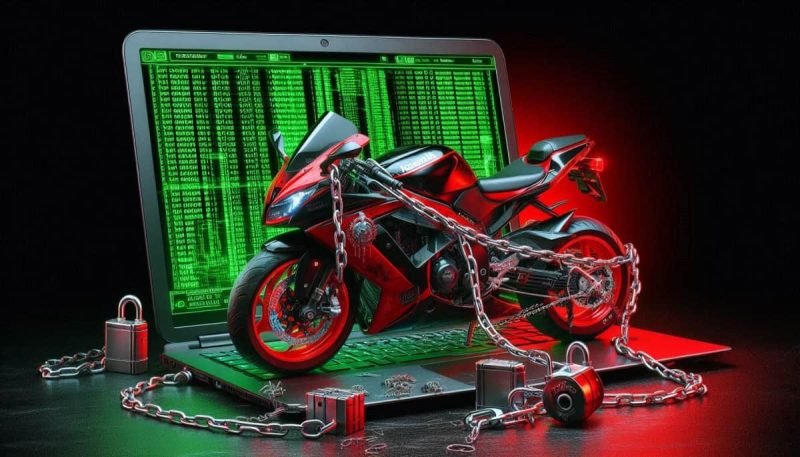
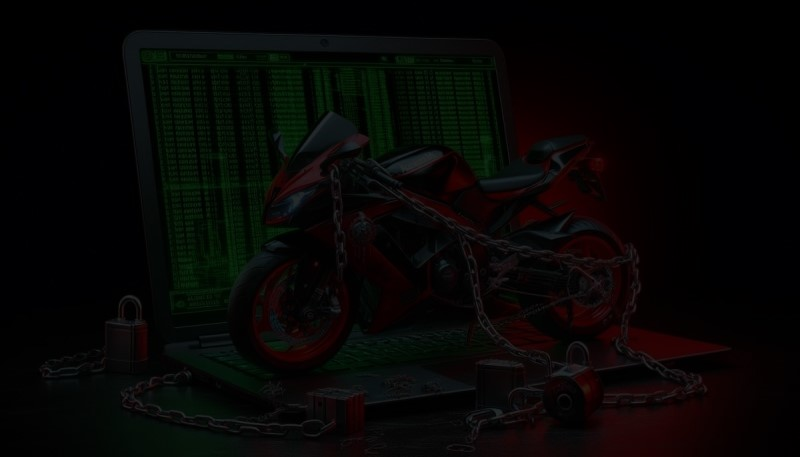
finished recent-cyber-attack
tapos na ya pramis

diff --git a/recent-cyber-attacks/icbc-financial-services.html b/recent-cyber-attacks/icbc-financial-services.html
@@ -9,8 +9,8 @@
 	</head>
 	<body class="text-white text-roboto">
 		<!-- NAVIGATION -->
-		<div id="hero" class="w-full p-2 pb-72 text-center bg-[url('../assets/picture-recent-cyber-attacks/icbc-attack.avif')] bg-cover bg-center bg-no-repeat relative" style="position: relative;">
-            <div style="position: absolute; inset: 0; background-color: rgba(0, 0, 0, 0.6); pointer-events: none ;"></div>
+		<div id="hero" class="w-full p-2 pb-72 text-center bg-[url('../assets/picture-recent-cyber-attacks/icbc-attack.jpg')] bg-cover bg-center bg-no-repeat relative" style="position: relative;">
+            <div style="position: absolute; inset: 0; background-color: rgba(0, 0, 0, 0); pointer-events: none ;"></div>
             <div style="position: absolute; inset: 0; box-shadow: inset 0 0 100px rgba(0, 0, 0, 0.5); pointer-events: none;"></div>
             <nav class="absolute inset-0 z-10">
                 <div class="w-full p-4 flex items-center justify-between">
@@ -356,7 +356,7 @@
           <div class="grid grid-cols-3 gap-4">
             
             <div class=" bg-[#141528] border border-indigo-900 rounded space-y-2 hover:scale-105 transform transition-all duration-300 hover:scale-105">
-                <img src="https://placehold.co/500x500" class="w-full h-80 object-cover rounded p-4" alt="">
+                <img src="../assets/picture-recent-cyber-attacks/boeing.jpg" class="w-full h-80 object-cover rounded p-4" alt="">
                 <div class="p-4">
                     <h5 class=" font-medium text-2xl">Boeing Ransomware Attack </h5>
                     <p class="my-2">Fasten your seatbelts for a high-flying cyber tale targeting the giants of the aerospace industry! Boeing, the name synonymous with aviation innovation, found itself in the crosshairs of the notorious LockBit ransomware group. Picture this: a $200 million ransom demand hanging in the digital air! Even though some data took an unauthorized flight online, Boeing assured the world that flight safety remained grounded in security. It's a stark reminder that even the most technologically advanced companies face relentless cyber threats, and the stakes are sky-high when it comes to protecting critical infrastructure.</p>
@@ -367,7 +367,7 @@
             </div>
 
             <div class=" bg-[#141528] border border-indigo-900 rounded space-y-2 hover:scale-105 transform transition-all duration-300 hover:scale-105">
-                <img src="https://placehold.co/500x500" class="w-full h-80 object-cover rounded p-4" alt="">
+                <img src="../assets/picture-recent-cyber-attacks/schneider-attack.jpg" class="w-full h-80 object-cover rounded p-4" alt="">
                 <div class="p-4">
                     <h5 class=" font-medium text-2xl">Schneider Electric Ransomware Attack</h5>
                     <p class="my-2">Let's journey into the intricate world of industrial giants and the cyber threats they face. Schneider Electric, a powerhouse in automation and digital transformation, found itself in a digital tug-of-war with the Hellcat ransomware group. Picture a locked digital vault containing project secrets and user data, with a hefty ransom demand echoing in the digital corridors. While the core operations remained seemingly untouched, the potential exposure of sensitive information adds a layer of suspense to this industrial cyber drama. It's a stark reminder that even the most robust enterprises are not immune to the persistent claws of ransomware.</p>
@@ -378,7 +378,7 @@
             </div>
 
             <div class=" bg-[#141528] border border-indigo-900 rounded space-y-2 hover:scale-105 transform transition-all duration-300 hover:scale-105">
-                <img src="https://placehold.co/500x500" class="w-full h-80 object-cover rounded p-4" alt="">
+                <img src="../assets/picture-recent-cyber-attacks/kawasaki-attack.jpg" class="w-full h-80 object-cover rounded p-4" alt="">
                 <div class="p-4">
                     <h5 class=" font-medium text-2xl">Kawasaki Motors Europe Ransomware Attack </h5>
                     <p class="my-2">A stealthy digital heist targeting the roaring world of Kawasaki motorcycles! RansomHub, a shadowy group of cyber extortionists, allegedly snatched a treasure trove of data from Kawasaki Motors Europe. What makes this tale extra intriguing is the initial hush-hush, with Kawasaki seemingly downplaying the digital drama. But like any good thriller, a plot twist emerged when the stolen secrets were reportedly leaked online after the ransom remained unpaid. It's a fascinating peek behind the corporate curtain, revealing that even when the engine's running smoothly, digital dangers can still lurk in the shadows.</p>

diff --git a/recent-cyber-attacks/kawasaki-motors.html b/recent-cyber-attacks/kawasaki-motors.html
@@ -10,7 +10,7 @@
 	<body class="text-white text-roboto">
 		<!-- NAVIGATION -->
 		<div id="hero" class="w-full p-2 pb-72 text-center bg-[url('../assets/picture-recent-cyber-attacks/kawasaki-attack.jpg')] bg-cover bg-center bg-no-repeat relative" style="position: relative;">
-            <div style="position: absolute; inset: 0; background-color: rgba(0, 0, 0, 0.6); pointer-events: none ;"></div>
+            <div style="position: absolute; inset: 0; background-color: rgba(0, 0, 0, 0); pointer-events: none ;"></div>
             <div style="position: absolute; inset: 0; box-shadow: inset 0 0 100px rgba(0, 0, 0, 0.5); pointer-events: none;"></div>
             <nav class="absolute inset-0 z-10">
                 <div class="w-full p-4 flex items-center justify-between">
@@ -357,7 +357,7 @@
           <div class="grid grid-cols-3 gap-4">
             
             <div class=" bg-[#141528] border border-indigo-900 rounded space-y-2 hover:scale-105 transform transition-all duration-300 hover:scale-105">
-                <img src="https://placehold.co/500x500" class="w-full h-80 object-cover rounded p-4" alt="">
+                <img src="../assets/picture-recent-cyber-attacks/change-healthcare.jpeg" class="w-full h-80 object-cover rounded p-4" alt="">
                 <div class="p-4">
                     <h5 class=" font-medium text-2xl">Change Healthcare Ransomware</h5>
                     <p class="my-2">Ever wonder what happens when the digital arteries of healthcare get clogged? In a dramatic cyber showdown, Change Healthcare, a vital cog in the US medical machine, found itself in the crosshairs of the notorious BlackCat ransomware gang. Imagine pharmacies unable to fill prescriptions and hospitals facing payment pandemonium – it was a real-life digital emergency! Ultimately, the alleged hefty ransom paid paints a vivid picture of the immense pressure these attacks can inflict, leaving us pondering the true cost of keeping our vital systems safe. Get ready to explore the gripping saga of a healthcare giant brought to its knees by the invisible menace of ransomware.</p>
@@ -368,7 +368,7 @@
             </div>
 
             <div class=" bg-[#141528] border border-indigo-900 rounded space-y-2 hover:scale-105 transform transition-all duration-300 hover:scale-105">
-                <img src="https://placehold.co/500x500" class="w-full h-80 object-cover rounded p-4" alt="">
+                <img src="../assets/picture-recent-cyber-attacks/boeing.jpg" class="w-full h-80 object-cover rounded p-4" alt="">
                 <div class="p-4">
                     <h5 class=" font-medium text-2xl">Boeing Ransomware Attack</h5>
                     <p class="my-2">Fasten your seatbelts for a high-flying cyber tale targeting the giants of the aerospace industry! Boeing, the name synonymous with aviation innovation, found itself in the crosshairs of the notorious LockBit ransomware group. Picture this: a $200 million ransom demand hanging in the digital air! Even though some data took an unauthorized flight online, Boeing assured the world that flight safety remained grounded in security. It's a stark reminder that even the most technologically advanced companies face relentless cyber threats, and the stakes are sky-high when it comes to protecting critical infrastructure.</p>
@@ -379,7 +379,7 @@
             </div>
 
             <div class=" bg-[#141528] border border-indigo-900 rounded space-y-2 hover:scale-105 transform transition-all duration-300 hover:scale-105">
-                <img src="https://placehold.co/500x500" class="w-full h-80 object-cover rounded p-4" alt="">
+                <img src="../assets/picture-recent-cyber-attacks/schneider-attack.jpg" class="w-full h-80 object-cover rounded p-4" alt="">
                 <div class="p-4">
                     <h5 class=" font-medium text-2xl">Schneider Electric Ransomware attack</h5>
                     <p class="my-2">Let's journey into the intricate world of industrial giants and the cyber threats they face. Schneider Electric, a powerhouse in automation and digital transformation, found itself in a digital tug-of-war with the Hellcat ransomware group. Picture a locked digital vault containing project secrets and user data, with a hefty ransom demand echoing in the digital corridors. While the core operations remained seemingly untouched, the potential exposure of sensitive information adds a layer of suspense to this industrial cyber drama. It's a stark reminder that even the most robust enterprises are not immune to the persistent claws of ransomware.</p>

diff --git a/recent-cyber-attacks/loan-depot.html b/recent-cyber-attacks/loan-depot.html
@@ -10,7 +10,7 @@
 	<body class="text-white text-roboto">
 		<!-- NAVIGATION -->
 		<div id="hero" class="w-full p-2 pb-72 text-center bg-[url('../assets/picture-recent-cyber-attacks/loandepot-attack.jpg')] bg-cover bg-center bg-no-repeat relative" style="position: relative;">
-            <div style="position: absolute; inset: 0; background-color: rgba(0, 0, 0, 0.6); pointer-events: none ;"></div>
+            <div style="position: absolute; inset: 0; background-color: rgba(0, 0, 0, 0); pointer-events: none ;"></div>
             <div style="position: absolute; inset: 0; box-shadow: inset 0 0 100px rgba(0, 0, 0, 0.5); pointer-events: none;"></div>
             <nav class="absolute inset-0 z-10">
                 <div class="w-full p-4 flex items-center justify-between">
@@ -354,7 +354,7 @@
           <div class="grid grid-cols-3 gap-4">
             
             <div class=" bg-[#141528] border border-indigo-900 rounded space-y-2 hover:scale-105 transform transition-all duration-300 hover:scale-105">
-                <img src="https://placehold.co/500x500" class="w-full h-80 object-cover rounded p-4" alt="">
+                <img src="../assets/picture-recent-cyber-attacks/loandepot-attack.jpg" class="w-full h-80 object-cover rounded p-4" alt="">
                 <div class="p-4">
                     <h5 class=" font-medium text-2xl">Boeing Ransomware Attack</h5>
                     <p class="my-2">Fasten your seatbelts for a high-flying cyber tale targeting the giants of the aerospace industry! Boeing, the name synonymous with aviation innovation, found itself in the crosshairs of the notorious LockBit ransomware group. Picture this: a $200 million ransom demand hanging in the digital air! Even though some data took an unauthorized flight online, Boeing assured the world that flight safety remained grounded in security. It's a stark reminder that even the most technologically advanced companies face relentless cyber threats, and the stakes are sky-high when it comes to protecting critical infrastructure.</p>
@@ -365,7 +365,7 @@
             </div>
 
             <div class=" bg-[#141528] border border-indigo-900 rounded space-y-2 hover:scale-105 transform transition-all duration-300 hover:scale-105">
-                <img src="https://placehold.co/500x500" class="w-full h-80 object-cover rounded p-4" alt="">
+                <img src="../assets/picture-recent-cyber-attacks/kawasaki-attack.jpg" class="w-full h-80 object-cover rounded p-4" alt="">
                 <div class="p-4">
                     <h5 class=" font-medium text-2xl">Kawasaki Motors Europe Ransomware Attack</h5>
                     <p class="my-2">A stealthy digital heist targeting the roaring world of Kawasaki motorcycles! RansomHub, a shadowy group of cyber extortionists, allegedly snatched a treasure trove of data from Kawasaki Motors Europe. What makes this tale extra intriguing is the initial hush-hush, with Kawasaki seemingly downplaying the digital drama. But like any good thriller, a plot twist emerged when the stolen secrets were reportedly leaked online after the ransom remained unpaid. It's a fascinating peek behind the corporate curtain, revealing that even when the engine's running smoothly, digital dangers can still lurk in the shadows.</p>
@@ -376,7 +376,7 @@
             </div>
 
             <div class=" bg-[#141528] border border-indigo-900 rounded space-y-2 hover:scale-105 transform transition-all duration-300 hover:scale-105">
-                <img src="https://placehold.co/500x500" class="w-full h-80 object-cover rounded p-4" alt="">
+                <img src="../assets/picture-recent-cyber-attacks/change-healthcare.jpeg" class="w-full h-80 object-cover rounded p-4" alt="">
                 <div class="p-4">
                     <h5 class=" font-medium text-2xl">Change Healthcare Ransomware Attack </h5>
                     <p class="my-2">Ever wonder what happens when the digital arteries of healthcare get clogged? In a dramatic cyber showdown, Change Healthcare, a vital cog in the US medical machine, found itself in the crosshairs of the notorious BlackCat ransomware gang. Imagine pharmacies unable to fill prescriptions and hospitals facing payment pandemonium – it was a real-life digital emergency! Ultimately, the alleged hefty ransom paid paints a vivid picture of the immense pressure these attacks can inflict, leaving us pondering the true cost of keeping our vital systems safe. Get ready to explore the gripping saga of a healthcare giant brought to its knees by the invisible menace of ransomware.</p>

diff --git a/recent-cyber-attacks/change-healthcare.html b/recent-cyber-attacks/change-healthcare.html
@@ -10,7 +10,7 @@
 	<body class="text-white text-roboto">
 		<!-- NAVIGATION -->
 		<div id="hero" class="w-full p-2 pb-72 text-center bg-[url('../assets/picture-recent-cyber-attacks/change-healthcare.jpeg')] bg-cover bg-center bg-no-repeat relative" style="position: relative;">
-            <div style="position: absolute; inset: 0; background-color: rgba(0, 0, 0, 0.4); pointer-events: none ;"></div>
+            <div style="position: absolute; inset: 0; background-color: rgba(0, 0, 0, 0); pointer-events: none ;"></div>
             <div style="position: absolute; inset: 0; box-shadow: inset 0 0 100px rgba(0, 0, 0, 0.5); pointer-events: none;"></div>
             <nav class="absolute inset-0 z-10">
                 <div class="w-full p-4 flex items-center justify-between">
@@ -355,7 +355,7 @@
           <div class="grid grid-cols-3 gap-4">
             
             <div class=" bg-[#141528] border border-indigo-900 rounded space-y-2 hover:scale-105 transform transition-all duration-300 hover:scale-105">
-                <img src="https://placehold.co/500x500" class="w-full h-80 object-cover rounded p-4" alt="">
+                <img src="../assets/picture-recent-cyber-attacks/boeing.jpg" class="w-full h-80 object-cover rounded p-4" alt="">
                 <div class="p-4">
                     <h5 class=" font-medium text-2xl">Boeing Ransomware Attack</h5>
                     <p class="my-2">Fasten your seatbelts for a high-flying cyber tale targeting the giants of the aerospace industry! Boeing, the name synonymous with aviation innovation, found itself in the crosshairs of the notorious LockBit ransomware group. Picture this: a $200 million ransom demand hanging in the digital air! Even though some data took an unauthorized flight online, Boeing assured the world that flight safety remained grounded in security. It's a stark reminder that even the most technologically advanced companies face relentless cyber threats, and the stakes are sky-high when it comes to protecting critical infrastructure.
@@ -366,7 +366,7 @@
             </div>
 
             <div class=" bg-[#141528] border border-indigo-900 rounded space-y-2 hover:scale-105 transform transition-all duration-300 hover:scale-105">
-                <img src="https://placehold.co/500x500" class="w-full h-80 object-cover rounded p-4" alt="">
+                <img src="../assets/picture-recent-cyber-attacks/loandepot-attack.jpg" class="w-full h-80 object-cover rounded p-4" alt="">
                 <div class="p-4">
                     <h5 class=" font-medium text-2xl">LoanDepot Ransomware Attack</h5>
                     <p class="my-2">In early January 2024, LoanDepot, a prominent mortgage lending company, became the target of a significant ransomware attack. The ALPHV/BlackCat ransomware group claimed responsibility for the intrusion, successfully breaching LoanDepot's systems. This cyberattack led to the exfiltration of sensitive personal information belonging to a staggering 16.6 million of their customers. The compromised data included a range of highly confidential details, such as names, Social Security numbers, dates of birth, and financial account numbers, placing a vast number of individuals at considerable risk of identity theft and financial fraud.</p>
@@ -377,7 +377,7 @@
             </div>
 
             <div class=" bg-[#141528] border border-indigo-900 rounded space-y-2 hover:scale-105 transform transition-all duration-300 hover:scale-105">
-                <img src="https://placehold.co/500x500" class="w-full h-80 object-cover rounded p-4" alt="">
+                <img src="../assets/picture-recent-cyber-attacks/kawasaki-attack.jpg" class="w-full h-80 object-cover rounded p-4" alt="">
                 <div class="p-4">
                     <h5 class=" font-medium text-2xl">Kawasaki Motors Europe Ransomware Attack</h5>
                     <p class="my-2">A stealthy digital heist targeting the roaring world of Kawasaki motorcycles! RansomHub, a shadowy group of cyber extortionists, allegedly snatched a treasure trove of data from Kawasaki Motors Europe. What makes this tale extra intriguing is the initial hush-hush, with Kawasaki seemingly downplaying the digital drama. But like any good thriller, a plot twist emerged when the stolen secrets were reportedly leaked online after the ransom remained unpaid. It's a fascinating peek behind the corporate curtain, revealing that even when the engine's running smoothly, digital dangers can still lurk in the shadows.</p>

diff --git a/recent-cyber-attacks/scheneider-electric.html b/recent-cyber-attacks/scheneider-electric.html
@@ -10,7 +10,7 @@
 	<body class="text-white text-roboto">
 		<!-- NAVIGATION -->
 		<div id="hero" class="w-full p-2 pb-72 text-center bg-[url('../assets/picture-recent-cyber-attacks/schneider-attack.jpg')] bg-cover bg-center bg-no-repeat relative" style="position: relative;">
-            <div style="position: absolute; inset: 0; background-color: rgba(0, 0, 0, 0.6); pointer-events: none ;"></div>
+            <div style="position: absolute; inset: 0; background-color: rgba(0, 0, 0, 0); pointer-events: none ;"></div>
             <div style="position: absolute; inset: 0; box-shadow: inset 0 0 100px rgba(0, 0, 0, 0.5); pointer-events: none;"></div>
             <nav class="absolute inset-0 z-10">
                 <div class="w-full p-4 flex items-center justify-between">
@@ -345,7 +345,7 @@
           <div class="grid grid-cols-3 gap-4">
             
             <div class=" bg-[#141528] border border-indigo-900 rounded space-y-2 hover:scale-105 transform transition-all duration-300 hover:scale-105">
-                <img src="https://placehold.co/500x500" class="w-full h-80 object-cover rounded p-4" alt="">
+                <img src="../assets/picture-recent-cyber-attacks/loandepot-attack.jpg" class="w-full h-80 object-cover rounded p-4" alt="">
                 <div class="p-4">
                     <h5 class=" font-medium text-2xl">LoanDepot Ransomware Attack</h5>
                     <p class="my-2">In early January 2024, LoanDepot, a prominent mortgage lending company, became the target of a significant ransomware attack. The ALPHV/BlackCat ransomware group claimed responsibility for the intrusion, successfully breaching LoanDepot's systems. This cyberattack led to the exfiltration of sensitive personal information belonging to a staggering 16.6 million of their customers. The compromised data included a range of highly confidential details, such as names, Social Security numbers, dates of birth, and financial account numbers, placing a vast number of individuals at considerable risk of identity theft and financial fraud.</p>
@@ -356,7 +356,7 @@
             </div>
 
             <div class=" bg-[#141528] border border-indigo-900 rounded space-y-2 hover:scale-105 transform transition-all duration-300 hover:scale-105">
-                <img src="https://placehold.co/500x500" class="w-full h-80 object-cover rounded p-4" alt="">
+                <img src="../assets/picture-recent-cyber-attacks/kawasaki-attack.jpg" class="w-full h-80 object-cover rounded p-4" alt="">
                 <div class="p-4">
                     <h5 class=" font-medium text-2xl">Kawasaki Motors Europe Cyber Attack</h5>
                     <p class="my-2">A stealthy digital heist targeting the roaring world of Kawasaki motorcycles! RansomHub, a shadowy group of cyber extortionists, allegedly snatched a treasure trove of data from Kawasaki Motors Europe. What makes this tale extra intriguing is the initial hush-hush, with Kawasaki seemingly downplaying the digital drama. But like any good thriller, a plot twist emerged when the stolen secrets were reportedly leaked online after the ransom remained unpaid. It's a fascinating peek behind the corporate curtain, revealing that even when the engine's running smoothly, digital dangers can still lurk in the shadows.</p>
@@ -367,7 +367,7 @@
             </div>
 
             <div class=" bg-[#141528] border border-indigo-900 rounded space-y-2 hover:scale-105 transform transition-all duration-300 hover:scale-105">
-                <img src="https://placehold.co/500x500" class="w-full h-80 object-cover rounded p-4" alt="">
+                <img src="../assets/picture-recent-cyber-attacks/boeing.jpg" class="w-full h-80 object-cover rounded p-4" alt="">
                 <div class="p-4">
                     <h5 class=" font-medium text-2xl">Boeing Ransomware Attack</h5>
                     <p class="my-2">Fasten your seatbelts for a high-flying cyber tale targeting the giants of the aerospace industry! Boeing, the name synonymous with aviation innovation, found itself in the crosshairs of the notorious LockBit ransomware group. Picture this: a $200 million ransom demand hanging in the digital air! Even though some data took an unauthorized flight online, Boeing assured the world that flight safety remained grounded in security. It's a stark reminder that even the most technologically advanced companies face relentless cyber threats, and the stakes are sky-high when it comes to protecting critical infrastructure.</p>

diff --git a/recent-cyber-attacks/truepill-data-breach.html b/recent-cyber-attacks/truepill-data-breach.html
@@ -10,7 +10,7 @@
 	<body class="text-white text-roboto">
 		<!-- NAVIGATION -->
 		<div id="hero" class="w-full p-2 pb-72 text-center bg-[url('../assets/picture-recent-cyber-attacks/truepill-attack.jpg')] bg-cover bg-center bg-no-repeat relative" style="position: relative;">
-            <div style="position: absolute; inset: 0; background-color: rgba(0, 0, 0, 0.2); pointer-events: none ;"></div>
+            <div style="position: absolute; inset: 0; background-color: rgba(0, 0, 0, 0); pointer-events: none ;"></div>
             <div style="position: absolute; inset: 0; box-shadow: inset 0 0 100px rgba(0, 0, 0, 0.5); pointer-events: none;"></div>
             <nav class="absolute inset-0 z-10">
                 <div class="w-full p-4 flex items-center justify-between">
@@ -345,7 +345,7 @@
           <div class="grid grid-cols-3 gap-4">
             
             <div class=" bg-[#141528] border border-indigo-900 rounded space-y-2 hover:scale-105 transform transition-all duration-300 hover:scale-105">
-                <img src="https://placehold.co/500x500" class="w-full h-80 object-cover rounded p-4" alt="">
+                <img src="../assets/picture-recent-cyber-attacks/loandepot-attack.jpg" class="w-full h-80 object-cover rounded p-4" alt="">
                 <div class="p-4">
                     <h5 class=" font-medium text-2xl">LoanDepot Ransomware Attack</h5>
                     <p class="my-2">In early January 2024, LoanDepot, a prominent mortgage lending company, became the target of a significant ransomware attack. The ALPHV/BlackCat ransomware group claimed responsibility for the intrusion, successfully breaching LoanDepot's systems. This cyberattack led to the exfiltration of sensitive personal information belonging to a staggering 16.6 million of their customers. The compromised data included a range of highly confidential details, such as names, Social Security numbers, dates of birth, and financial account numbers, placing a vast number of individuals at considerable risk of identity theft and financial fraud.</p>
@@ -356,7 +356,7 @@
             </div>
 
             <div class=" bg-[#141528] border border-indigo-900 rounded space-y-2 hover:scale-105 transform transition-all duration-300 hover:scale-105">
-                <img src="https://placehold.co/500x500" class="w-full h-80 object-cover rounded p-4" alt="">
+                <img src="../assets/picture-recent-cyber-attacks/mgm-attack.jpg" class="w-full h-80 object-cover rounded p-4" alt="">
                 <div class="p-4">
                     <h5 class=" font-medium text-2xl">MGM Resorts Phishing Attack</h5>
                     <p class="my-2">Welcome to the dazzling world of Las Vegas, where the stakes are always high, even in the digital realm! MGM Resorts, a titan of the Strip, found its glittering operations plunged into chaos by a cunning cyberattack, reportedly orchestrated by the Scattered Spider gang. Imagine slot machines going silent and reservation systems grinding to a halt – a digital blackout in the city that never sleeps! The subsequent legal fallout over compromised data adds another layer to this Sin City cyber saga, highlighting the very real consequences of digital vulnerabilities in the entertainment industry.</p>
@@ -367,7 +367,7 @@
             </div>
 
             <div class=" bg-[#141528] border border-indigo-900 rounded space-y-2 hover:scale-105 transform transition-all duration-300 hover:scale-105">
-                <img src="https://placehold.co/500x500" class="w-full h-80 object-cover rounded p-4" alt="">
+                <img src="../assets/picture-recent-cyber-attacks/kawasaki-attack.jpg" class="w-full h-80 object-cover rounded p-4" alt="">
                 <div class="p-4">
                     <h5 class=" font-medium text-2xl">Kawasaki Motors Europe Cyber Attack</h5>
                     <p class="my-2">A stealthy digital heist targeting the roaring world of Kawasaki motorcycles! RansomHub, a shadowy group of cyber extortionists, allegedly snatched a treasure trove of data from Kawasaki Motors Europe. What makes this tale extra intriguing is the initial hush-hush, with Kawasaki seemingly downplaying the digital drama. But like any good thriller, a plot twist emerged when the stolen secrets were reportedly leaked online after the ransom remained unpaid. It's a fascinating peek behind the corporate curtain, revealing that even when the engine's running smoothly, digital dangers can still lurk in the shadows.</p>

diff --git a/recent-cyber-attacks/mgm-resorts.html b/recent-cyber-attacks/mgm-resorts.html
@@ -10,7 +10,7 @@
 	<body class="text-white text-roboto">
 		<!-- NAVIGATION -->
 		<div id="hero" class="w-full p-2 pb-72 text-center bg-[url('../assets/picture-recent-cyber-attacks/mgm-attack.jpg')] bg-cover bg-center bg-no-repeat relative" style="position: relative;">
-            <div style="position: absolute; inset: 0; background-color: rgba(0, 0, 0, 0.6); pointer-events: none ;"></div>
+            <div style="position: absolute; inset: 0; background-color: rgba(0, 0, 0, 0); pointer-events: none ;"></div>
             <div style="position: absolute; inset: 0; box-shadow: inset 0 0 100px rgba(0, 0, 0, 0.5); pointer-events: none;"></div>
             <nav class="absolute inset-0 z-10">
                 <div class="w-full p-4 flex items-center justify-between">
@@ -348,14 +348,14 @@
           
 
 
-        
+       
 
         <div class="space-y-4 pt-18">
           <h4 class="font-medium text-2xl text-[#E2C8F1]">Read More</h4>
           <div class="grid grid-cols-3 gap-4">
             
             <div class=" bg-[#141528] border border-indigo-900 rounded space-y-2 hover:scale-105 transform transition-all duration-300 hover:scale-105">
-                <img src="https://placehold.co/500x500" class="w-full h-80 object-cover rounded p-4" alt="">
+                <img src="../assets/picture-recent-cyber-attacks/change-healthcare.jpeg" class="w-full h-80 object-cover rounded p-4" alt="">
                 <div class="p-4">
                     <h5 class=" font-medium text-2xl">Change Healthcare Ransomware Attack </h5>
                     <p class="my-2">In a dramatic cyber showdown, Change Healthcare, a vital cog in the US medical machine, found itself in the crosshairs of the notorious BlackCat ransomware gang. Imagine pharmacies unable to fill prescriptions and hospitals facing payment pandemonium – it was a real-life digital emergency! Ultimately, the alleged hefty ransom paid paints a vivid picture of the immense pressure these attacks can inflict, leaving us pondering the true cost of keeping our vital systems safe. Get ready to explore the gripping saga of a healthcare giant brought to its knees by the invisible menace of ransomware.</p>
@@ -366,7 +366,7 @@
             </div>
 
             <div class=" bg-[#141528] border border-indigo-900 rounded space-y-2 hover:scale-105 transform transition-all duration-300 hover:scale-105">
-                <img src="https://placehold.co/500x500" class="w-full h-80 object-cover rounded p-4" alt="">
+                <img src="../assets/picture-recent-cyber-attacks/icbc-attack.jpg" class="w-full h-80 object-cover rounded p-4" alt="">
                 <div class="p-4">
                     <h5 class=" font-medium text-2xl">ICBC Financial Services Ransomware Attack</h5>
                     <p class="my-2">ICBC, a banking behemoth, found itself caught in a digital double whammy. First, a LockBit ransomware attack threw a wrench in US Treasury trades, causing ripples in the massive financial markets. Then, just when things seemed to settle, a data breach hit their London branch! This isn't just about one bank's troubles; it's a nail-biting illustration of how interconnected our financial world is and the potential for cyberattacks to send shockwaves across continents.</p>
@@ -377,7 +377,7 @@
             </div>
 
             <div class=" bg-[#141528] border border-indigo-900 rounded space-y-2 hover:scale-105 transform transition-all duration-300 hover:scale-105">
-                <img src="https://placehold.co/500x500" class="w-full h-80 object-cover rounded p-4" alt="">
+                <img src="../assets/picture-recent-cyber-attacks/boeing.jpg" class="w-full h-80 object-cover rounded p-4" alt="">
                 <div class="p-4">
                     <h5 class=" font-medium text-2xl">Boeing ransomware attack</h5>
                     <p class="my-2">Fasten your seatbelts for a high-flying cyber tale targeting the giants of the aerospace industry! Boeing, the name synonymous with aviation innovation, found itself in the crosshairs of the notorious LockBit ransomware group. Picture this: a $200 million ransom demand hanging in the digital air! Even though some data took an unauthorized flight online, Boeing assured the world that flight safety remained grounded in security. It's a stark reminder that even the most technologically advanced companies face relentless cyber threats, and the stakes are sky-high when it comes to protecting critical infrastructure.</p>

diff --git a/recent-cyber-attacks/boeing-ransomware.html b/recent-cyber-attacks/boeing-ransomware.html
@@ -11,7 +11,7 @@
 		<!-- NAVIGATION -->
 		<div id="hero" class="w-full p-2 pb-72 text-center bg-[url('../assets/picture-recent-cyber-attacks/boeing.jpg')] bg-cover bg-center bg-no-repeat relative"
              style="position: relative;">
-            <div style="position: absolute; inset: 0; background-color: rgba(0, 0, 0, 0.8); pointer-events: none;"></div>
+            <div style="position: absolute; inset: 0; background-color: rgba(0, 0, 0, 0); pointer-events: none;"></div>
             <div style="position: absolute; inset: 0; box-shadow: inset 0 0 100px rgba(0, 0, 0, 0.5); pointer-events: none;"></div>
             <nav class="absolute inset-0 z-10">
                 <div class="w-full p-4 flex items-center justify-between">
@@ -354,7 +354,7 @@
           <div class="grid grid-cols-3 gap-4">
             
             <div class=" bg-[#141528] border border-indigo-900 rounded space-y-2 hover:scale-105 transform transition-all duration-300 hover:scale-105">
-                <img src="https://placehold.co/500x500" class="w-full h-80 object-cover rounded p-4" alt="">
+                <img src="../assets/picture-recent-cyber-attacks/icbc-attack.jpg" class="w-full h-80 object-cover rounded p-4" alt="">
                 <div class="p-4">
                     <h5 class=" font-medium text-2xl">ICBC Financial Services Ransomware Attack</h5>
                     <p class="my-2">Get ready for a financial thriller with global implications! ICBC, a banking behemoth, found itself caught in a digital double whammy. First, a LockBit ransomware attack threw a wrench in US Treasury trades, causing ripples in the massive financial markets. Then, just when things seemed to settle, a data breach hit their London branch! This isn't just about one bank's troubles; it's a nail-biting illustration of how interconnected our financial world is and the potential for cyberattacks to send shockwaves across continents.</p>
@@ -365,7 +365,7 @@
             </div>
 
             <div class=" bg-[#141528] border border-indigo-900 rounded space-y-2 hover:scale-105 transform transition-all duration-300 hover:scale-105">
-                <img src="https://placehold.co/500x500" class="w-full h-80 object-cover rounded p-4" alt="">
+                <img src="../assets/picture-recent-cyber-attacks/schneider-attack.jpg" class="w-full h-80 object-cover rounded p-4" alt="">
                 <div class="p-4">
                     <h5 class=" font-medium text-2xl">Schneider Electric Ransomware Attack</h5>
                     <p class="my-2">Let's journey into the intricate world of industrial giants and the cyber threats they face. Schneider Electric, a powerhouse in automation and digital transformation, found itself in a digital tug-of-war with the Hellcat ransomware group. Picture a locked digital vault containing project secrets and user data, with a hefty ransom demand echoing in the digital corridors. While the core operations remained seemingly untouched, the potential exposure of sensitive information adds a layer of suspense to this industrial cyber drama. It's a stark reminder that even the most robust enterprises are not immune to the persistent claws of ransomware.</p>
@@ -376,7 +376,7 @@
             </div>
 
             <div class=" bg-[#141528] border border-indigo-900 rounded space-y-2 hover:scale-105 transform transition-all duration-300 hover:scale-105">
-                <img src="https://placehold.co/500x500" class="w-full h-80 object-cover rounded p-4" alt="">
+                <img src="../assets/picture-recent-cyber-attacks/kawasaki-attack.jpg" class="w-full h-80 object-cover rounded p-4" alt="">
                 <div class="p-4">
                     <h5 class=" font-medium text-2xl">Kawasaki Motors Europe Ransomware Attack</h5>
                     <p class="my-2">A stealthy digital heist targeting the roaring world of Kawasaki motorcycles! RansomHub, a shadowy group of cyber extortionists, allegedly snatched a treasure trove of data from Kawasaki Motors Europe. What makes this tale extra intriguing is the initial hush-hush, with Kawasaki seemingly downplaying the digital drama. But like any good thriller, a plot twist emerged when the stolen secrets were reportedly leaked online after the ransom remained unpaid. It's a fascinating peek behind the corporate curtain, revealing that even when the engine's running smoothly, digital dangers can still lurk in the shadows.</p>

diff --git a/recent-cyber-attacks/salt-typhoon.html b/recent-cyber-attacks/salt-typhoon.html
@@ -10,7 +10,7 @@
 	<body class="text-white text-roboto">
 		<!-- NAVIGATION -->
 		<div id="hero" class="w-full p-2 pb-72 text-center bg-[url('../assets/picture-recent-cyber-attacks/salt-typhoon-attack.jpg')] bg-cover bg-center bg-no-repeat relative" style="position: relative;">
-            <div style="position: absolute; inset: 0; background-color: rgba(0, 0, 0, 0.2); pointer-events: none ;"></div>
+            <div style="position: absolute; inset: 0; background-color: rgba(0, 0, 0, 0); pointer-events: none ;"></div>
             <div style="position: absolute; inset: 0; box-shadow: inset 0 0 100px rgba(0, 0, 0, 0.5); pointer-events: none;"></div>
             <nav class="absolute inset-0 z-10">
                 <div class="w-full p-4 flex items-center justify-between">
@@ -358,7 +358,7 @@
           <div class="grid grid-cols-3 gap-4">
             
             <div class=" bg-[#141528] border border-indigo-900 rounded space-y-2 hover:scale-105 transform transition-all duration-300 hover:scale-105">
-                <img src="https://placehold.co/500x500" class="w-full h-80 object-cover rounded p-4" alt="">
+                <img src="../assets/picture-recent-cyber-attacks/change-healthcare.jpeg" class="w-full h-80 object-cover rounded p-4" alt="">
                 <div class="p-4">
                     <h5 class=" font-medium text-2xl">Change Healthcare Ransomware Attack </h5>
                     <p class="my-2">In a dramatic cyber showdown, Change Healthcare, a vital cog in the US medical machine, found itself in the crosshairs of the notorious BlackCat ransomware gang. Imagine pharmacies unable to fill prescriptions and hospitals facing payment pandemonium – it was a real-life digital emergency! Ultimately, the alleged hefty ransom paid paints a vivid picture of the immense pressure these attacks can inflict, leaving us pondering the true cost of keeping our vital systems safe. Get ready to explore the gripping saga of a healthcare giant brought to its knees by the invisible menace of ransomware.</p>
@@ -369,7 +369,7 @@
             </div>
 
             <div class=" bg-[#141528] border border-indigo-900 rounded space-y-2 hover:scale-105 transform transition-all duration-300 hover:scale-105">
-                <img src="https://placehold.co/500x500" class="w-full h-80 object-cover rounded p-4" alt="">
+                <img src="../assets/picture-recent-cyber-attacks/icbc-attack.jpg" class="w-full h-80 object-cover rounded p-4" alt="">
                 <div class="p-4">
                     <h5 class=" font-medium text-2xl">ICBC Financial Services Ransomware Attack</h5>
                     <p class="my-2">Get ready for a financial thriller with global implications! ICBC, a banking behemoth, found itself caught in a digital double whammy. First, a LockBit ransomware attack threw a wrench in US Treasury trades, causing ripples in the massive financial markets. Then, just when things seemed to settle, a data breach hit their London branch! This isn't just about one bank's troubles; it's a nail-biting illustration of how interconnected our financial world is and the potential for cyberattacks to send shockwaves across continents.</p>
@@ -380,7 +380,7 @@
             </div>
 
             <div class=" bg-[#141528] border border-indigo-900 rounded space-y-2 hover:scale-105 transform transition-all duration-300 hover:scale-105">
-                <img src="https://placehold.co/500x500" class="w-full h-80 object-cover rounded p-4" alt="">
+                <img src="../assets/picture-recent-cyber-attacks/boeing.jpg" class="w-full h-80 object-cover rounded p-4" alt="">
                 <div class="p-4">
                     <h5 class=" font-medium text-2xl">Boeing Ransomware Attack</h5>
                     <p class="my-2">Fasten your seatbelts for a high-flying cyber tale targeting the giants of the aerospace industry! Boeing, the name synonymous with aviation innovation, found itself in the crosshairs of the notorious LockBit ransomware group. Picture this: a $200 million ransom demand hanging in the digital air! Even though some data took an unauthorized flight online, Boeing assured the world that flight safety remained grounded in security. It's a stark reminder that even the most technologically advanced companies face relentless cyber threats, and the stakes are sky-high when it comes to protecting critical infrastructure.</p>

diff --git a/recent-cyber-attacks/crowdstrike-incident.html b/recent-cyber-attacks/crowdstrike-incident.html
@@ -10,7 +10,7 @@
 	<body class="text-white text-roboto">
 		<!-- NAVIGATION -->
 		<div id="hero" class="w-full p-2 pb-72 text-center bg-[url('../assets/picture-recent-cyber-attacks/crowdstrike-incident.jpg')] bg-cover bg-center bg-no-repeat relative" style="position: relative;">
-            <div style="position: absolute; inset: 0; background-color: rgba(0, 0, 0, 0.5); pointer-events: none ;"></div>
+            <div style="position: absolute; inset: 0; background-color: rgba(0, 0, 0, 0); pointer-events: none ;"></div>
             <div style="position: absolute; inset: 0; box-shadow: inset 0 0 100px rgba(0, 0, 0, 0.5); pointer-events: none;"></div>
             <nav class="absolute inset-0 z-10">
                 <div class="w-full p-4 flex items-center justify-between">
@@ -354,7 +354,7 @@
           <div class="grid grid-cols-3 gap-4">
             
             <div class=" bg-[#141528] border border-indigo-900 rounded space-y-2 hover:scale-105 transform transition-all duration-300 hover:scale-105">
-                <img src="https://placehold.co/500x500" class="w-full h-80 object-cover rounded p-4" alt="">
+                <img src="../assets/picture-recent-cyber-attacks/change-healthcare.jpeg" class="w-full h-80 object-cover rounded p-4" alt="">
                 <div class="p-4">
                     <h5 class=" font-medium text-2xl">Change Healthcare Ransomware Attack </h5>
                     <p class="my-2"> The ransomware attack caused a "widespread outage, crippling essential functions such as insurance eligibility verification, claims processing, and prescription fulfillment." This directly led to a major IT outage across the healthcare system.</p>
@@ -365,7 +365,7 @@
             </div>
 
             <div class=" bg-[#141528] border border-indigo-900 rounded space-y-2 hover:scale-105 transform transition-all duration-300 hover:scale-105">
-                <img src="https://placehold.co/500x500" class="w-full h-80 object-cover rounded p-4" alt="">
+                <img src="../assets/picture-recent-cyber-attacks/icbc-attack.jpg" class="w-full h-80 object-cover rounded p-4" alt="">
                 <div class="p-4">
                     <h5 class=" font-medium text-2xl">ICBC Financial Services Ransomware Attack</h5>
                     <p class="my-2">This attack "led to a halt in U.S. Treasury trades and causing considerable payment delays," indicating a significant disruption of their IT systems and operations.</p>
@@ -376,7 +376,7 @@
             </div>
 
             <div class=" bg-[#141528] border border-indigo-900 rounded space-y-2 hover:scale-105 transform transition-all duration-300 hover:scale-105">
-                <img src="https://placehold.co/500x500" class="w-full h-80 object-cover rounded p-4" alt="">
+                <img src="../assets/picture-recent-cyber-attacks/mgm-attack.jpg" class="w-full h-80 object-cover rounded p-4" alt="">
                 <div class="p-4">
                     <h5 class=" font-medium text-2xl">MGM Resorts Phishing Attack</h5>
                     <p class="my-2">The attack "brought operations across their prominent Las Vegas properties to a near standstill for almost a week," affecting various IT-dependent services like slot machines, hotel bookings, and point-of-sale systems. This was a major IT outage impacting their business.</p>
